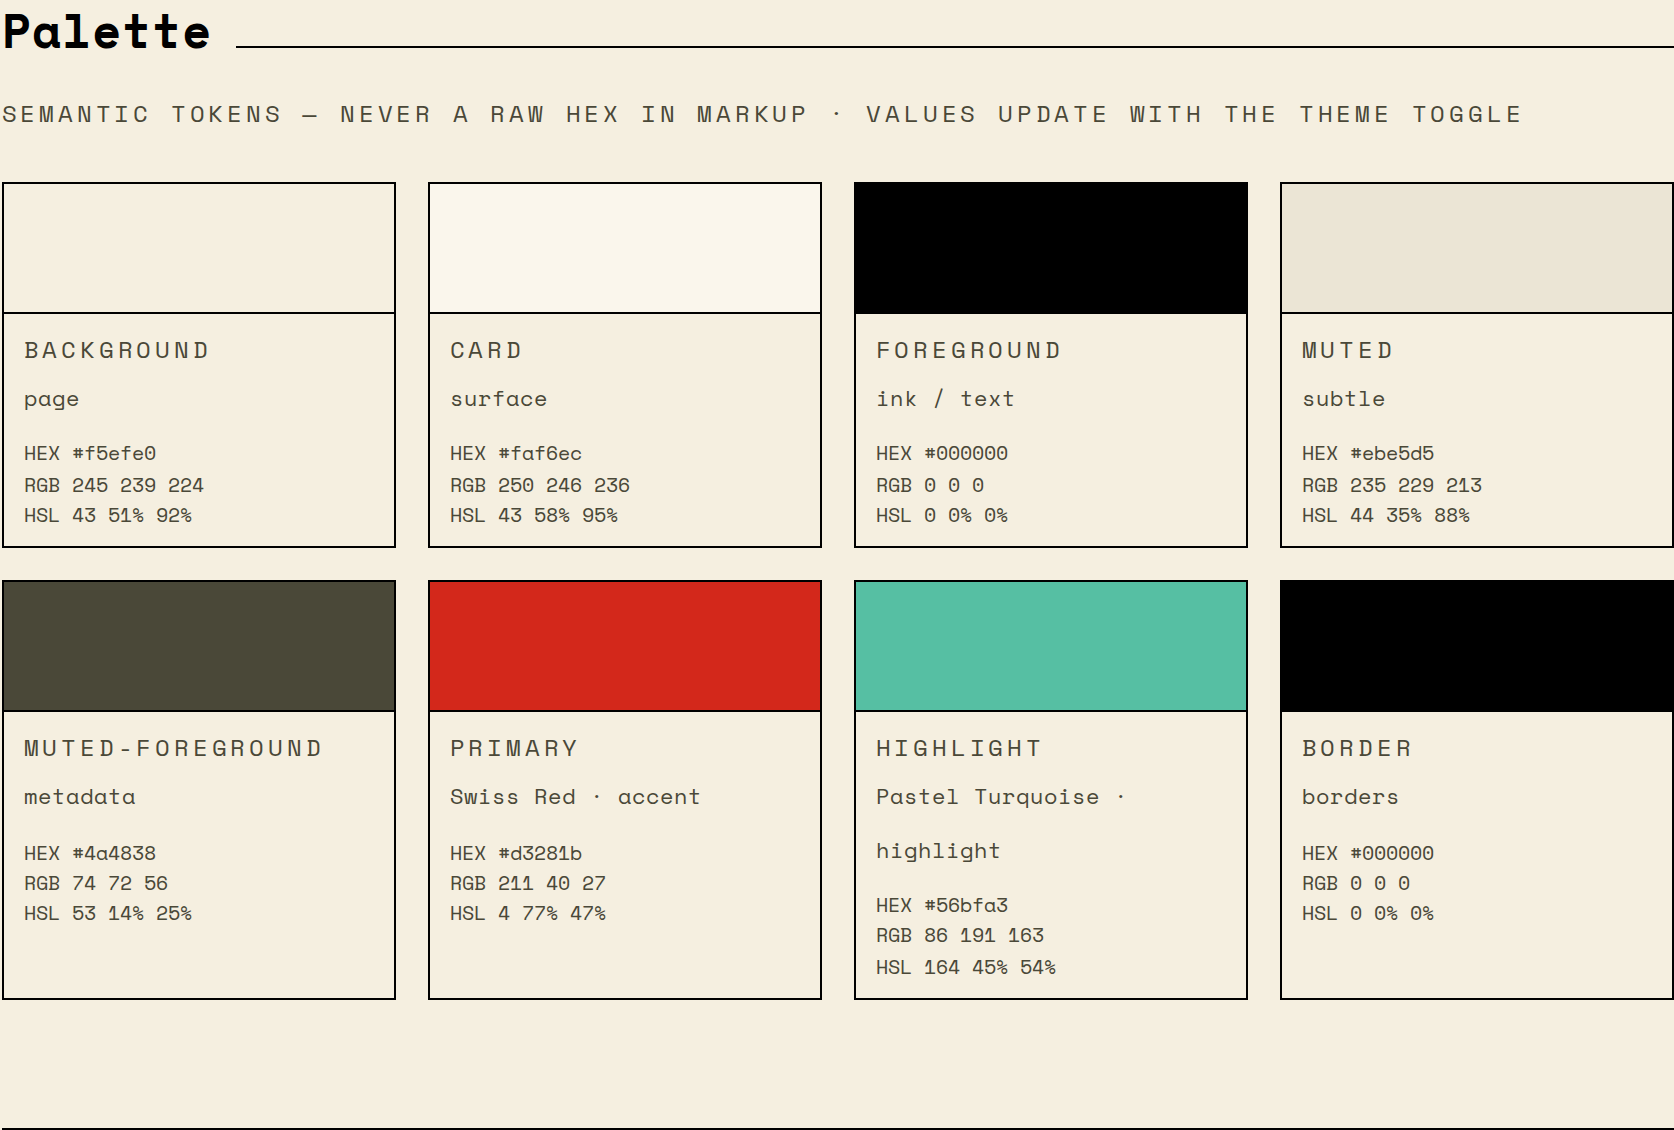
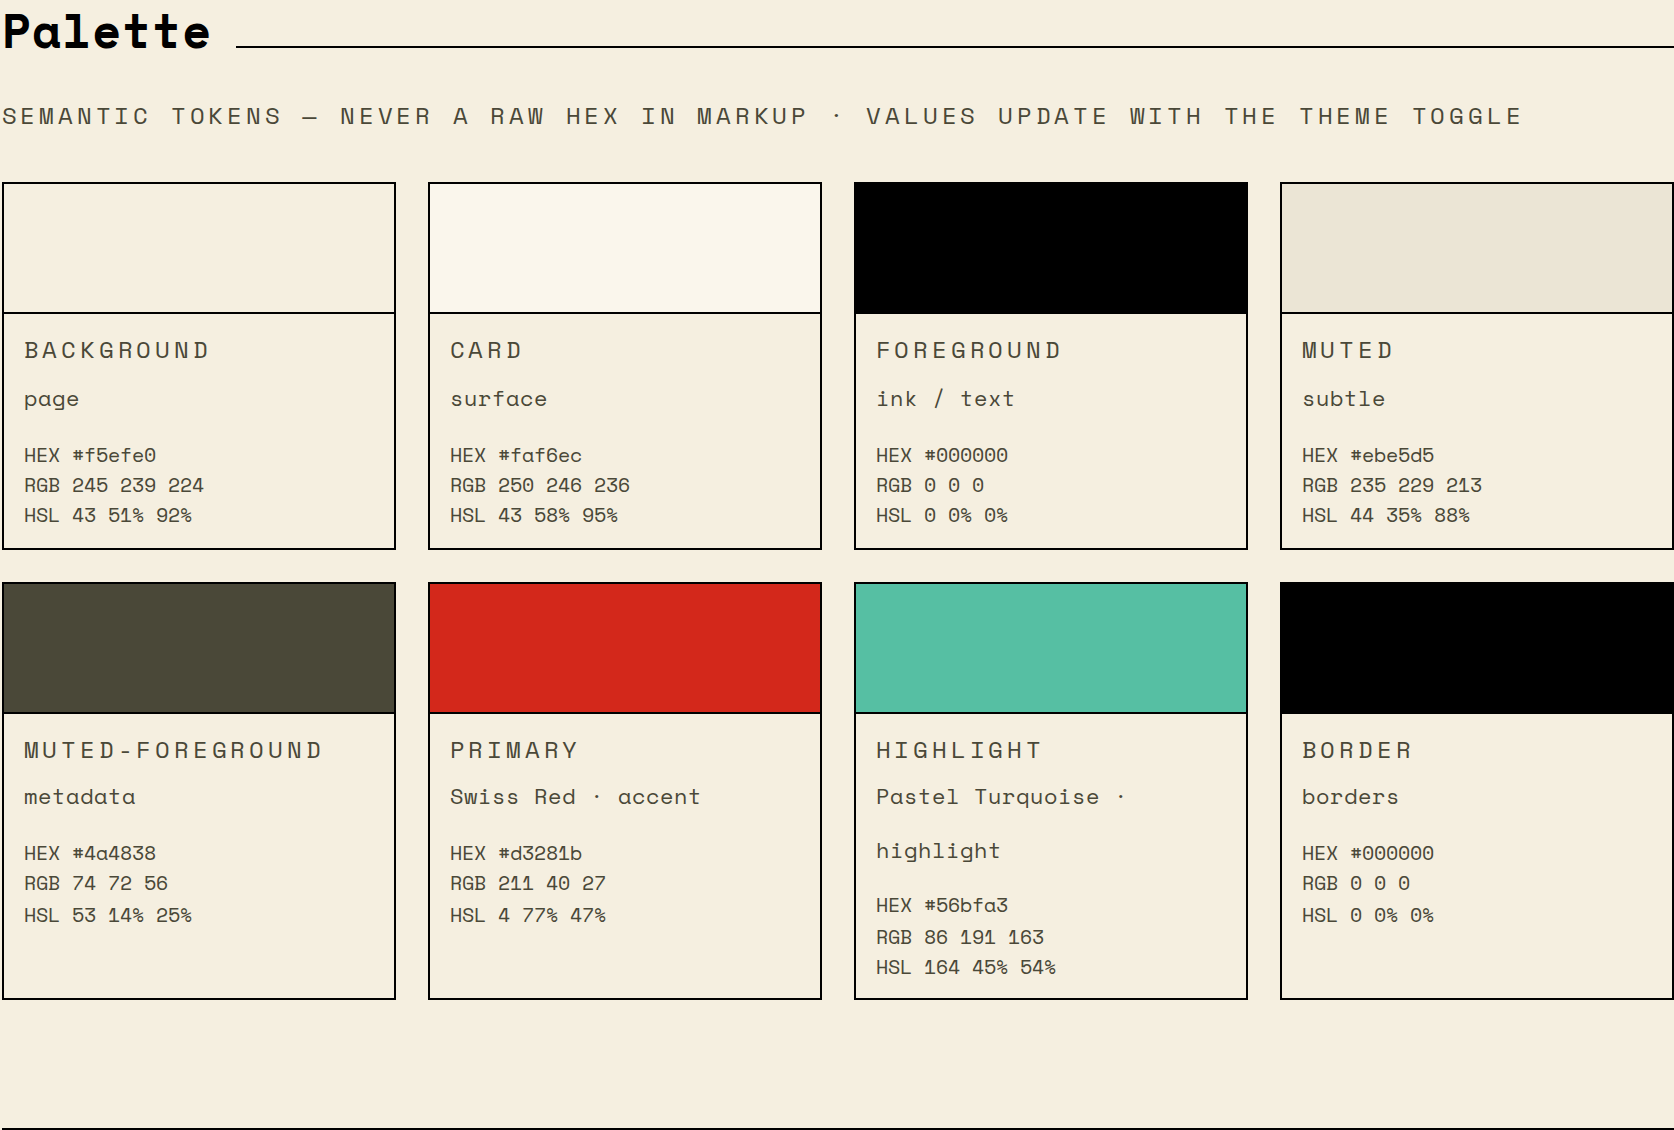
feat(tokens): add --primary-foreground-strong on-token for small text on red fills
Cream on the dark-mode red (#e2503f) is 3.4:1 and no light foreground can
reach 4.5:1 on it, while darkening the red breaks red-on-black. Rather than
re-tint a brand color, add an on-token: cream in light, warm ink #1a120e in
dark (4.8:1). theme.css, SKILL.md, the site stylesheet and pages, and the
verifier palette carry it; --primary-foreground stays the brand cream for
heading-size text on red. Screenshots regenerated.

diff --git a/docs/colors.html b/docs/colors.html
@@ -17,17 +17,17 @@
     })();
   </script>
   <title>Colors — Tri-Swiss</title>
-  <meta name="description" content="The Tri-Swiss palette: fifteen semantic tokens in light and dark, Swiss Red's jobs, Pastel Turquoise's jobs, and measured contrast." />
+  <meta name="description" content="The Tri-Swiss palette: sixteen semantic tokens in light and dark, Swiss Red's jobs, Pastel Turquoise's jobs, and measured contrast." />
   <meta property="og:type" content="website" />
   <meta property="og:title" content="Colors — Tri-Swiss" />
-  <meta property="og:description" content="The Tri-Swiss palette: fifteen semantic tokens in light and dark, Swiss Red's jobs, Pastel Turquoise's jobs, and measured contrast." />
+  <meta property="og:description" content="The Tri-Swiss palette: sixteen semantic tokens in light and dark, Swiss Red's jobs, Pastel Turquoise's jobs, and measured contrast." />
   <meta property="og:url" content="https://luxsolari.github.io/tri-swiss/colors.html" />
   <meta property="og:image" content="https://luxsolari.github.io/tri-swiss/assets/social-card.png" />
   <meta property="og:image:width" content="1200" />
   <meta property="og:image:height" content="630" />
   <meta name="twitter:card" content="summary_large_image" />
   <meta name="twitter:title" content="Colors — Tri-Swiss" />
-  <meta name="twitter:description" content="The Tri-Swiss palette: fifteen semantic tokens in light and dark, Swiss Red's jobs, Pastel Turquoise's jobs, and measured contrast." />
+  <meta name="twitter:description" content="The Tri-Swiss palette: sixteen semantic tokens in light and dark, Swiss Red's jobs, Pastel Turquoise's jobs, and measured contrast." />
   <meta name="twitter:image" content="https://luxsolari.github.io/tri-swiss/assets/social-card.png" />
   <link rel="preconnect" href="https://fonts.googleapis.com" />
   <link rel="preconnect" href="https://fonts.gstatic.com" crossorigin />
@@ -69,7 +69,7 @@
             <p class="label">01 — Foundations</p>
             <h1>Colors</h1>
             <div class="stripe hero" aria-hidden="true"><i></i><i></i><i></i></div>
-            <p class="lead">Fifteen semantic tokens, two themes. Light and dark are the same system inverted: <code>background</code> and <code>foreground</code> swap, <code>border</code> follows <code>foreground</code>, <code>primary</code> lifts from <code>#d3281b</code> to <code>#e2503f</code>, <code>highlight</code> from <code>#56bfa3</code> to <code>#63cbae</code>, and <code>highlight-foreground</code> stays black in both.</p>
+            <p class="lead">Sixteen semantic tokens, two themes. Light and dark are the same system inverted: <code>background</code> and <code>foreground</code> swap, <code>border</code> follows <code>foreground</code>, <code>primary</code> lifts from <code>#d3281b</code> to <code>#e2503f</code>, <code>highlight</code> from <code>#56bfa3</code> to <code>#63cbae</code>, and <code>highlight-foreground</code> stays black in both. <code>primary-foreground-strong</code> is the added on-token for small text on red: cream in light, warm ink in dark.</p>
           </header>
           <section id="palette" class="first">
             <div class="divider"><h3>Palette</h3><span class="rule"></span></div>
@@ -122,7 +122,11 @@
                 <tr><td><code>--primary-foreground</code></td>
                   <td><span class="tok-swatch" style="background:#f5efe0;"></span><code>#f5efe0</code></td>
                   <td><span class="tok-swatch" style="background:#f5efe0;"></span><code>#f5efe0</code></td>
-                  <td>Text on primary: sidebar nav, hero-band title, hovered Destructive button.</td></tr>
+                  <td>Text on primary at heading size: hero-band title, sidebar wordmark. 3.4:1 in dark, so large text only.</td></tr>
+                <tr><td><code>--primary-foreground-strong</code></td>
+                  <td><span class="tok-swatch" style="background:#f5efe0;"></span><code>#f5efe0</code></td>
+                  <td><span class="tok-swatch" style="background:#1a120e;"></span><code>#1a120e</code></td>
+                  <td>Small text on primary fills: sidebar nav and footer, hero-band labels, hovered Destructive button text. An added on-token, 4.8:1 in dark.</td></tr>
                 <tr><td><code>--secondary</code></td>
                   <td><span class="tok-swatch" style="background:#000000;"></span><code>#000000</code></td>
                   <td><span class="tok-swatch" style="background:#f5efe0;"></span><code>#f5efe0</code></td>
@@ -192,7 +196,7 @@
 
           <section id="contrast">
             <div class="divider"><h3>Contrast</h3><span class="rule"></span></div>
-            <p class="measure"><code>foreground</code>, <code>muted-foreground</code> and <code>highlight-foreground</code> clear 7:1 on their grounds in both themes. Three pairs from the source are kept as they are and flagged: <code>primary</code> on <code>background</code> in light is 4.5:1 exactly; <code>primary-foreground</code> on <code>primary</code> in dark is 3.4:1, so text on the red block in dark mode stays at the mono label size or above; and <code>highlight</code> as text on <code>background</code> in light is 1.95:1, so the hero's turquoise line is decoration only and never carries meaning.</p>
+            <p class="measure"><code>foreground</code>, <code>muted-foreground</code> and <code>highlight-foreground</code> clear 7:1 on their grounds in both themes. Two pairs from the source are kept and flagged: <code>primary</code> on <code>background</code> in light is 4.5:1 exactly, and <code>highlight</code> as text on <code>background</code> in light is 1.95:1, so the hero's turquoise line is decoration only. The third, cream <code>primary-foreground</code> on the dark-mode red at 3.4:1, is resolved by an added on-token rather than a re-tint: <code>primary-foreground-strong</code> is cream in light and warm ink <code>#1a120e</code> in dark, 4.8:1 on <code>primary</code>, used for every piece of small text on a red fill (this site's sidebar included). <code>primary-foreground</code> stays the brand cream for heading-size text on red.</p>
             <table class="data-table" style="margin-top:24px; max-width:640px;">
               <thead><tr><th>Pair</th><th class="num">Light</th><th class="num">Dark</th></tr></thead>
               <tbody>
@@ -200,7 +204,8 @@
                 <tr><td>muted-foreground on background</td><td class="num">8.1</td><td class="num">8.6</td></tr>
                 <tr><td>muted-foreground on card</td><td class="num">8.6</td><td class="num">7.4</td></tr>
                 <tr><td>primary on background</td><td class="num">4.5</td><td class="num">5.5</td></tr>
-                <tr><td>primary-foreground on primary</td><td class="num">4.5</td><td class="num">3.4</td></tr>
+                <tr><td>primary-foreground on primary (heading size)</td><td class="num">4.5</td><td class="num">3.4</td></tr>
+                <tr><td>primary-foreground-strong on primary</td><td class="num">4.5</td><td class="num">4.8</td></tr>
                 <tr><td>highlight-foreground on highlight</td><td class="num">9.4</td><td class="num">10.7</td></tr>
                 <tr><td>highlight on background</td><td class="num">1.9</td><td class="num">10.7</td></tr>
               </tbody>

diff --git a/docs/assets/site.css b/docs/assets/site.css
@@ -5,7 +5,7 @@
 
 :root {
   --background:#f5efe0; --foreground:#000000; --card:#faf6ec; --card-foreground:#000000;
-  --primary:#d3281b; --primary-foreground:#f5efe0; --secondary:#000000; --secondary-foreground:#f5efe0;
+  --primary:#d3281b; --primary-foreground:#f5efe0; --primary-foreground-strong:#f5efe0; --secondary:#000000; --secondary-foreground:#f5efe0;
   --muted:#ebe5d5; --muted-foreground:#4a4838; --border:#000000; --input:#faf6ec; --ring:#d3281b;
   --highlight:#56bfa3; --highlight-foreground:#000000;
   --radius:0.5rem;
@@ -21,7 +21,7 @@
 .jost { --font-display:'Jost',system-ui,sans-serif; }
 .dark {
   --background:#000000; --foreground:#f5efe0; --card:#161616; --card-foreground:#f5efe0;
-  --primary:#e2503f; --primary-foreground:#f5efe0; --secondary:#f5efe0; --secondary-foreground:#000000;
+  --primary:#e2503f; --primary-foreground:#f5efe0; --primary-foreground-strong:#1a120e; --secondary:#f5efe0; --secondary-foreground:#000000;
   --muted:#1f1f1f; --muted-foreground:#a8a696; --border:#f5efe0; --input:#161616; --ring:#e2503f;
   --highlight:#63cbae; --highlight-foreground:#000000;
 }
@@ -95,20 +95,20 @@ section.first { border-top:none; padding-top:0; }
   color:inherit; text-decoration:none; }
 .sidebar-nav { margin-top:40px; display:flex; flex-direction:column; gap:14px;
   font-family:var(--font-mono); font-size:0.8rem; text-transform:uppercase; letter-spacing:0.15em; }
-.sidebar-nav a { color:var(--primary-foreground); text-decoration:none; opacity:0.75;
+.sidebar-nav a { color:var(--primary-foreground-strong); text-decoration:none; opacity:0.75;
   border-bottom:2px solid transparent; padding-bottom:2px; width:max-content;
   transition:opacity 0.15s, border-color 0.15s; }
 .sidebar-nav a:hover { opacity:1; border-bottom-color:var(--highlight); }
 .sidebar-nav a[aria-current="page"] { opacity:1; font-weight:700; }
-.sidebar-bottom { display:flex; flex-direction:column; gap:14px; margin-top:32px;
+.sidebar-bottom { color:var(--primary-foreground-strong); display:flex; flex-direction:column; gap:14px; margin-top:32px;
   font-family:var(--font-mono); font-size:0.7rem; text-transform:uppercase; letter-spacing:0.12em; }
-.sidebar-bottom a { color:var(--primary-foreground); text-decoration:none; opacity:0.85;
+.sidebar-bottom a { color:var(--primary-foreground-strong); text-decoration:none; opacity:0.85;
   display:inline-flex; align-items:center; gap:6px; transition:opacity 0.15s; }
 .sidebar-bottom a:hover { opacity:1; }
-.sidebar-bottom .toggle button { color:var(--primary-foreground); opacity:0.6; }
+.sidebar-bottom .toggle button { color:var(--primary-foreground-strong); opacity:0.6; }
 .sidebar-bottom .toggle button[aria-pressed="true"] { opacity:1; }
-.sidebar-bottom .toggle .mid { color:var(--primary-foreground); opacity:0.4; }
-.hamburger { display:none; background:none; border:none; color:var(--primary-foreground); cursor:pointer; padding:4px; }
+.sidebar-bottom .toggle .mid { color:var(--primary-foreground-strong); opacity:0.4; }
+.hamburger { display:none; background:none; border:none; color:var(--primary-foreground-strong); cursor:pointer; padding:4px; }
 .content { flex:1; min-width:0; }
 .content-inner { max-width:900px; margin:0 auto; padding:0 32px; }
 .page-head { padding:56px 0 48px; }
@@ -182,7 +182,7 @@ footer { border-top:1px solid var(--border); padding:48px 0; }
 .btn-filled { background:var(--foreground); color:var(--background); }
 .btn-filled:hover { opacity:0.9; }
 .btn-destructive, .btn-accent { border-color:var(--primary); color:var(--primary); }
-.btn-destructive:hover, .btn-destructive.is-hover-demo { background:var(--primary); color:var(--primary-foreground); }
+.btn-destructive:hover, .btn-destructive.is-hover-demo { background:var(--primary); color:var(--primary-foreground-strong); }
 .btn-accent:hover, .btn-accent.is-hover-demo { background:var(--highlight); color:var(--highlight-foreground); border-color:var(--highlight); }
 .btn:disabled { opacity:0.4; cursor:default; }
 .btn:disabled:hover { background:none; color:var(--foreground); }
@@ -192,8 +192,8 @@ footer { border-top:1px solid var(--border); padding:48px 0; }
 .cap { font-family:var(--font-mono); font-size:0.65rem; text-transform:uppercase; letter-spacing:0.12em; color:var(--muted-foreground); }
 .on-red { background:var(--primary); padding:16px; display:flex; gap:0; }
 .on-red > div { flex:1; }
-.on-red .cap { color:var(--primary-foreground); opacity:0.7; }
-.demo-nav-link { color:var(--primary-foreground); text-decoration:none; opacity:0.75;
+.on-red .cap { color:var(--primary-foreground-strong); opacity:0.7; }
+.demo-nav-link { color:var(--primary-foreground-strong); text-decoration:none; opacity:0.75;
   border-bottom:2px solid transparent; padding-bottom:2px;
   font-family:var(--font-mono); font-size:0.8rem; text-transform:uppercase; letter-spacing:0.15em;
   transition:opacity 0.15s, border-color 0.15s; }

diff --git a/docs/components.html b/docs/components.html
@@ -193,7 +193,7 @@
           <section id="hero-band">
             <div class="divider"><h3>HeroBand</h3><span class="rule"></span></div>
             <p class="measure" style="margin-bottom:24px;">Red's Structural Block as a horizontal band, padding <code>space-16</code> by 48px, used once at the top of a page as an alternative to the Sidebar.</p>
-            <div style="border:1px solid var(--border);"><div style="background:var(--primary); color:var(--primary-foreground); padding:48px 40px;"><p class="label" style="color:var(--primary-foreground); opacity:0.75;">Structural Block · hero band</p><h2 style="margin-top:12px;">Two colors, one accent, one third.</h2></div><div style="padding:20px 40px;"><p class="small measure">Below the band, ink and cream take over. One strong <span class="accent-word">accent</span> as a bold word; everything else is weight, space, and contrast.</p></div></div>
+            <div style="border:1px solid var(--border);"><div style="background:var(--primary); color:var(--primary-foreground); padding:48px 40px;"><p class="label" style="color:var(--primary-foreground-strong); opacity:0.75;">Structural Block · hero band</p><h2 style="margin-top:12px;">Two colors, one accent, one third.</h2></div><div style="padding:20px 40px;"><p class="small measure">Below the band, ink and cream take over. One strong <span class="accent-word">accent</span> as a bold word; everything else is weight, space, and contrast.</p></div></div>
             <div class="measure" style="margin-top:24px;"><p class="small">Never combined with a Sidebar; a Turquoise panel never sits adjacent to it. The bold-word accent (one word in <code>primary</code>) is independent and may combine with either block.</p></div>
           </section>
           <section id="callout">

diff --git a/docs/index.html b/docs/index.html
@@ -136,7 +136,7 @@
           <section id="sections">
             <div class="divider"><h3>The system, section by section</h3><span class="rule"></span></div>
             <div class="grid grid-auto">
-              <a class="index-card" href="colors.html"><p class="label">01</p><h4>Colors</h4><p>Fifteen semantic tokens in two themes, Red's jobs, Turquoise's jobs, measured contrast.</p></a>
+              <a class="index-card" href="colors.html"><p class="label">01</p><h4>Colors</h4><p>Sixteen semantic tokens in two themes, Red's jobs, Turquoise's jobs, measured contrast.</p></a>
               <a class="index-card" href="typography.html"><p class="label">02</p><h4>Typography</h4><p>Three roles, two flavors, the weight axis, the heading scale and the label pattern.</p></a>
               <a class="index-card" href="spacing.html"><p class="label">03</p><h4>Spacing</h4><p>Spacing steps, the one radius, fixed sizes and the opacity states.</p></a>
               <a class="index-card" href="components.html"><p class="label">04</p><h4>Components</h4><p>Nineteen patterns with live demos and guidelines, from buttons to the Turquoise callout.</p></a>

diff --git a/docs/structural-block.html b/docs/structural-block.html
@@ -83,7 +83,7 @@
                 <p class="small" style="margin-top:8px;">One word inside a heading or paragraph in <code>primary</code>, at normal weight and size. Independent of the two block forms.</p>
               </div>
               <div style="border:1px solid var(--border);">
-                <div style="background:var(--primary); color:var(--primary-foreground); padding:40px 32px;"><p class="label" style="color:var(--primary-foreground); opacity:0.75;">Hero band</p><h2 style="margin-top:12px;">Hero title.</h2></div>
+                <div style="background:var(--primary); color:var(--primary-foreground); padding:40px 32px;"><p class="label" style="color:var(--primary-foreground-strong); opacity:0.75;">Hero band</p><h2 style="margin-top:12px;">Hero title.</h2></div>
                 <div style="padding:20px 32px;"><p class="small">Two structural colors, one strong <span class="accent-word">accent</span>.</p></div>
               </div>
             </div>

diff --git a/skills/tri-swiss/assets/theme.css b/skills/tri-swiss/assets/theme.css
@@ -14,6 +14,7 @@
   --card-foreground: #000000;
   --primary: #d3281b;
   --primary-foreground: #f5efe0;
+  --primary-foreground-strong: #f5efe0;
   --secondary: #000000;
   --secondary-foreground: #f5efe0;
   --muted: #ebe5d5;
@@ -60,6 +61,7 @@
   --card-foreground: #f5efe0;
   --primary: #e2503f;
   --primary-foreground: #f5efe0;
+  --primary-foreground-strong: #1a120e;
   --secondary: #f5efe0;
   --secondary-foreground: #000000;
   --muted: #1f1f1f;
@@ -84,6 +86,7 @@
   --color-card-foreground: var(--card-foreground);
   --color-primary: var(--primary);
   --color-primary-foreground: var(--primary-foreground);
+  --color-primary-foreground-strong: var(--primary-foreground-strong);
   --color-secondary: var(--secondary);
   --color-secondary-foreground: var(--secondary-foreground);
   --color-muted: var(--muted);

diff --git a/skills/tri-swiss/SKILL.md b/skills/tri-swiss/SKILL.md
@@ -136,7 +136,8 @@ Use the semantic token, never a raw hex. `bg-background`, `text-foreground`,
 | `--card` | `#faf6ec` | Elevated surface — card, popover |
 | `--card-foreground` | `#000000` | Text on card surfaces |
 | `--primary` | `#d3281b` | Swiss Red — accent, destructive, ring |
-| `--primary-foreground` | `#f5efe0` | Text on primary |
+| `--primary-foreground` | `#f5efe0` | Text on primary at heading size (hero-band title, sidebar wordmark) |
+| `--primary-foreground-strong` | `#f5efe0` | Small text on primary fills — same cream in light (4.5:1) |
 | `--secondary` | `#000000` | Secondary action background |
 | `--secondary-foreground` | `#f5efe0` | Text on secondary |
 | `--muted` | `#ebe5d5` | Subtle backgrounds — hover, code blocks |
@@ -168,6 +169,20 @@ Dark mode is the `.dark` class on `<html>`. Toggle with
 `document.documentElement.classList.toggle("dark", isDark)` and persist under
 a `theme` key in `localStorage`. In Tailwind 4 the variant is
 `@custom-variant dark (&:is(.dark *));` (already in `theme.css`).
+
+### The `--primary-foreground-strong` on-token
+
+Swiss Red and the cream are exact brand values, and in dark mode the
+lifted red `#e2503f` cannot carry cream small text at 4.5:1 (it lands at
+3.4:1; even pure white only reaches 3.85:1). Rather than re-tint either
+brand color, `--primary-foreground-strong` is an added on-token, the same
+pattern `--highlight-foreground` already follows: cream in light, a warm
+ink `#1a120e` in dark (4.8:1 on `#e2503f`). Use it for every piece of
+**small** text on a red fill — sidebar nav links and footer, labels
+inside a hero band, the hovered Destructive button's text, Default /
+Hover captions on red. Keep `--primary-foreground` for heading-size text
+on red (the hero-band title, the sidebar wordmark), where 3.4:1 clears
+the large-text threshold and the cream-on-red identity stays intact.
 
 ### The `--highlight` token — read this before using it
 
@@ -359,7 +374,7 @@ All buttons: `font-mono uppercase tracking-[0.2em] text-xs`. Five variants:
 - **Filled** (primary action, rare): `border border-foreground bg-foreground px-4
   py-2 text-background hover:bg-foreground/90`.
 - **Destructive:** `border border-primary text-primary px-4 py-2
-  hover:bg-primary hover:text-primary-foreground` — Red's already-named
+  hover:bg-primary hover:text-primary-foreground-strong` — Red's already-named
   "destructive" job (see Philosophy), now with a documented variant.
   Demonstrates the hover hierarchy below: Red carries the real hover
   signal.

diff --git a/CHANGELOG.md b/CHANGELOG.md
@@ -7,6 +7,15 @@ All notable changes to this plugin are documented here. Format follows
 ## [Unreleased]
 
 ### Added
+- **`--primary-foreground-strong` on-token** — cream `#f5efe0` in light,
+  warm ink `#1a120e` in dark (4.8:1 on the lifted red), for small text on
+  a Swiss Red fill: sidebar nav and footer, hero-band labels, the hovered
+  Destructive button's text, Default / Hover captions on red. Added
+  rather than re-tinting a brand color: cream on `#e2503f` is 3.4:1 and
+  no light foreground can reach 4.5:1 on it, while darkening the red
+  breaks red-on-black. `--primary-foreground` stays the brand cream for
+  heading-size text on red (`assets/theme.css`, `SKILL.md`,
+  `docs/assets/site.css`).
 - **Documentation site** — the single showcase page is now a navigable
   site under `docs/` that is both showcase and documentation: Overview,
   Colors, Typography, Spacing, Components (nineteen patterns with live
